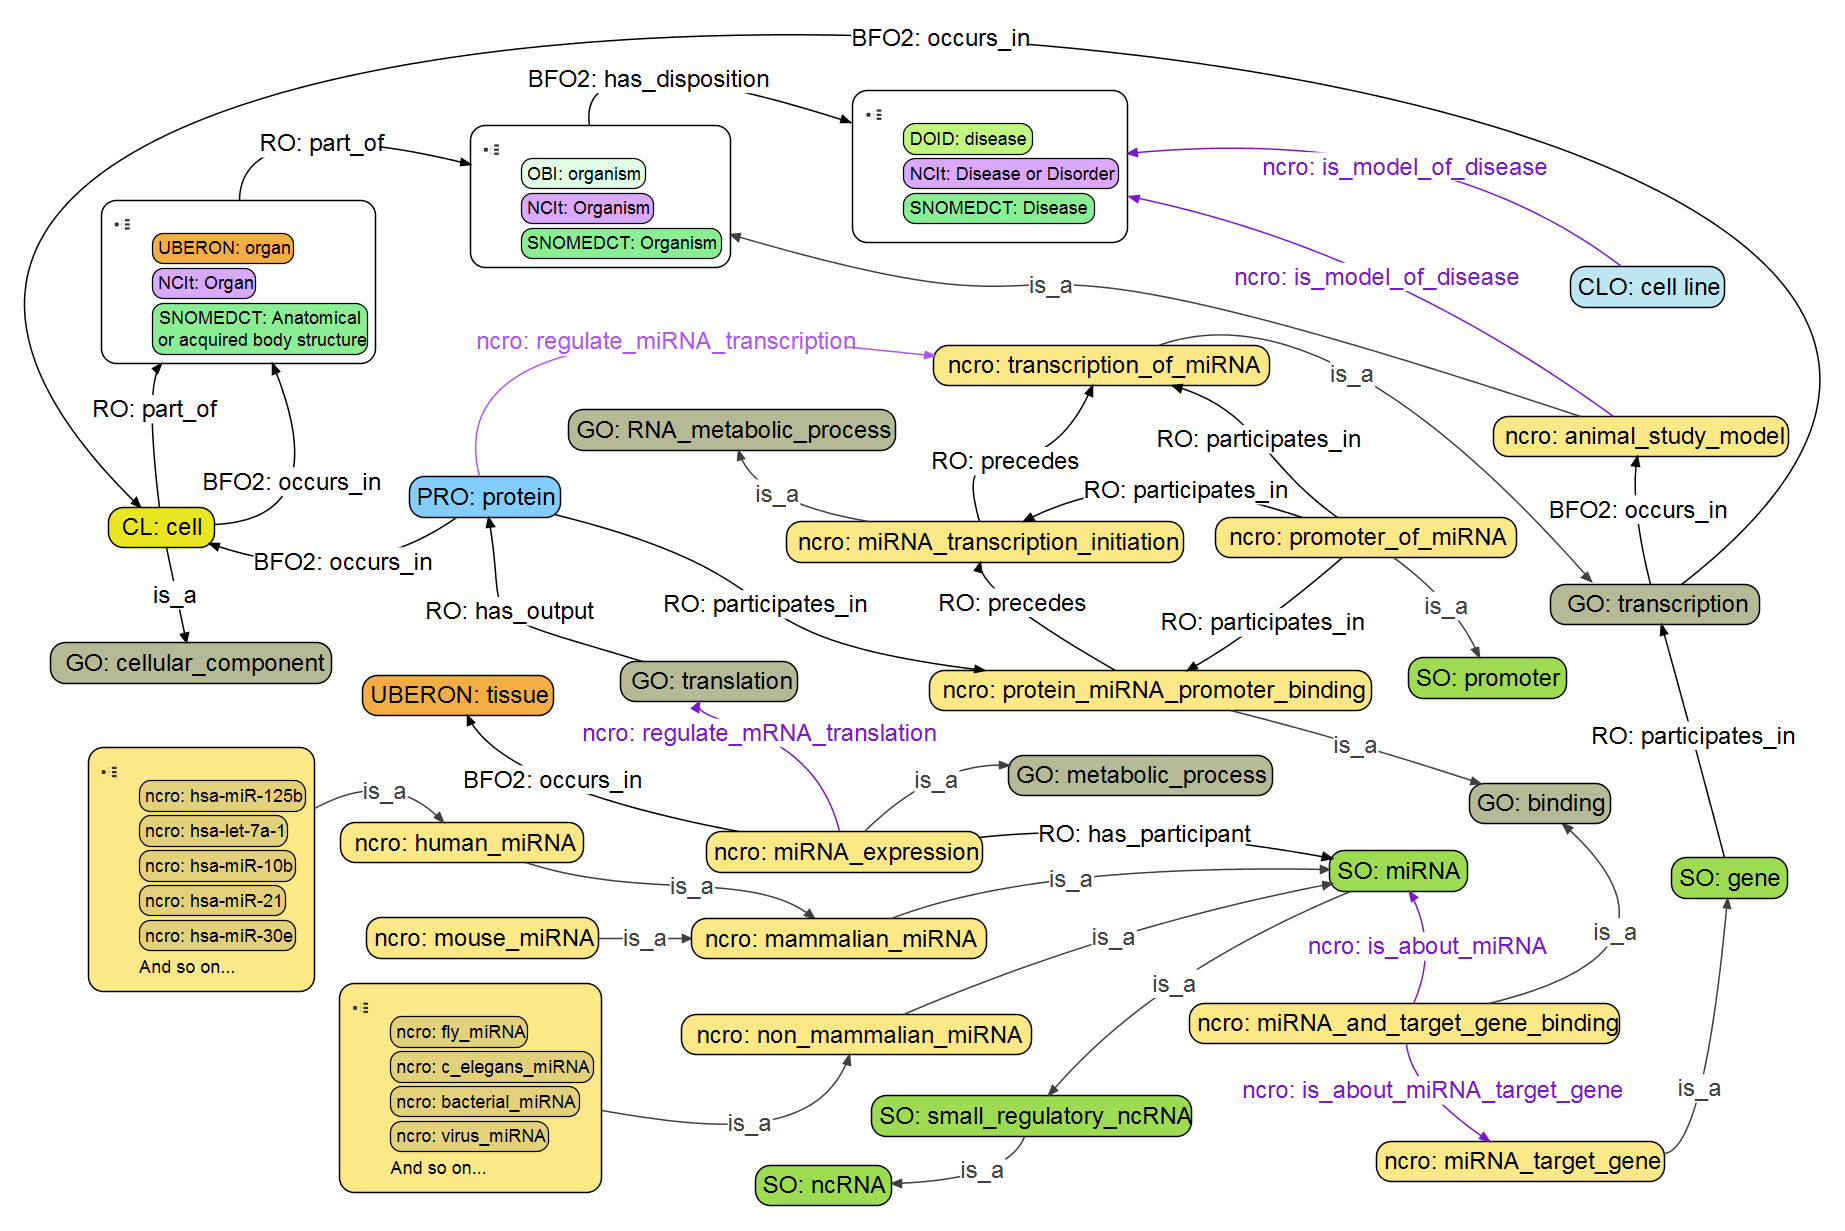
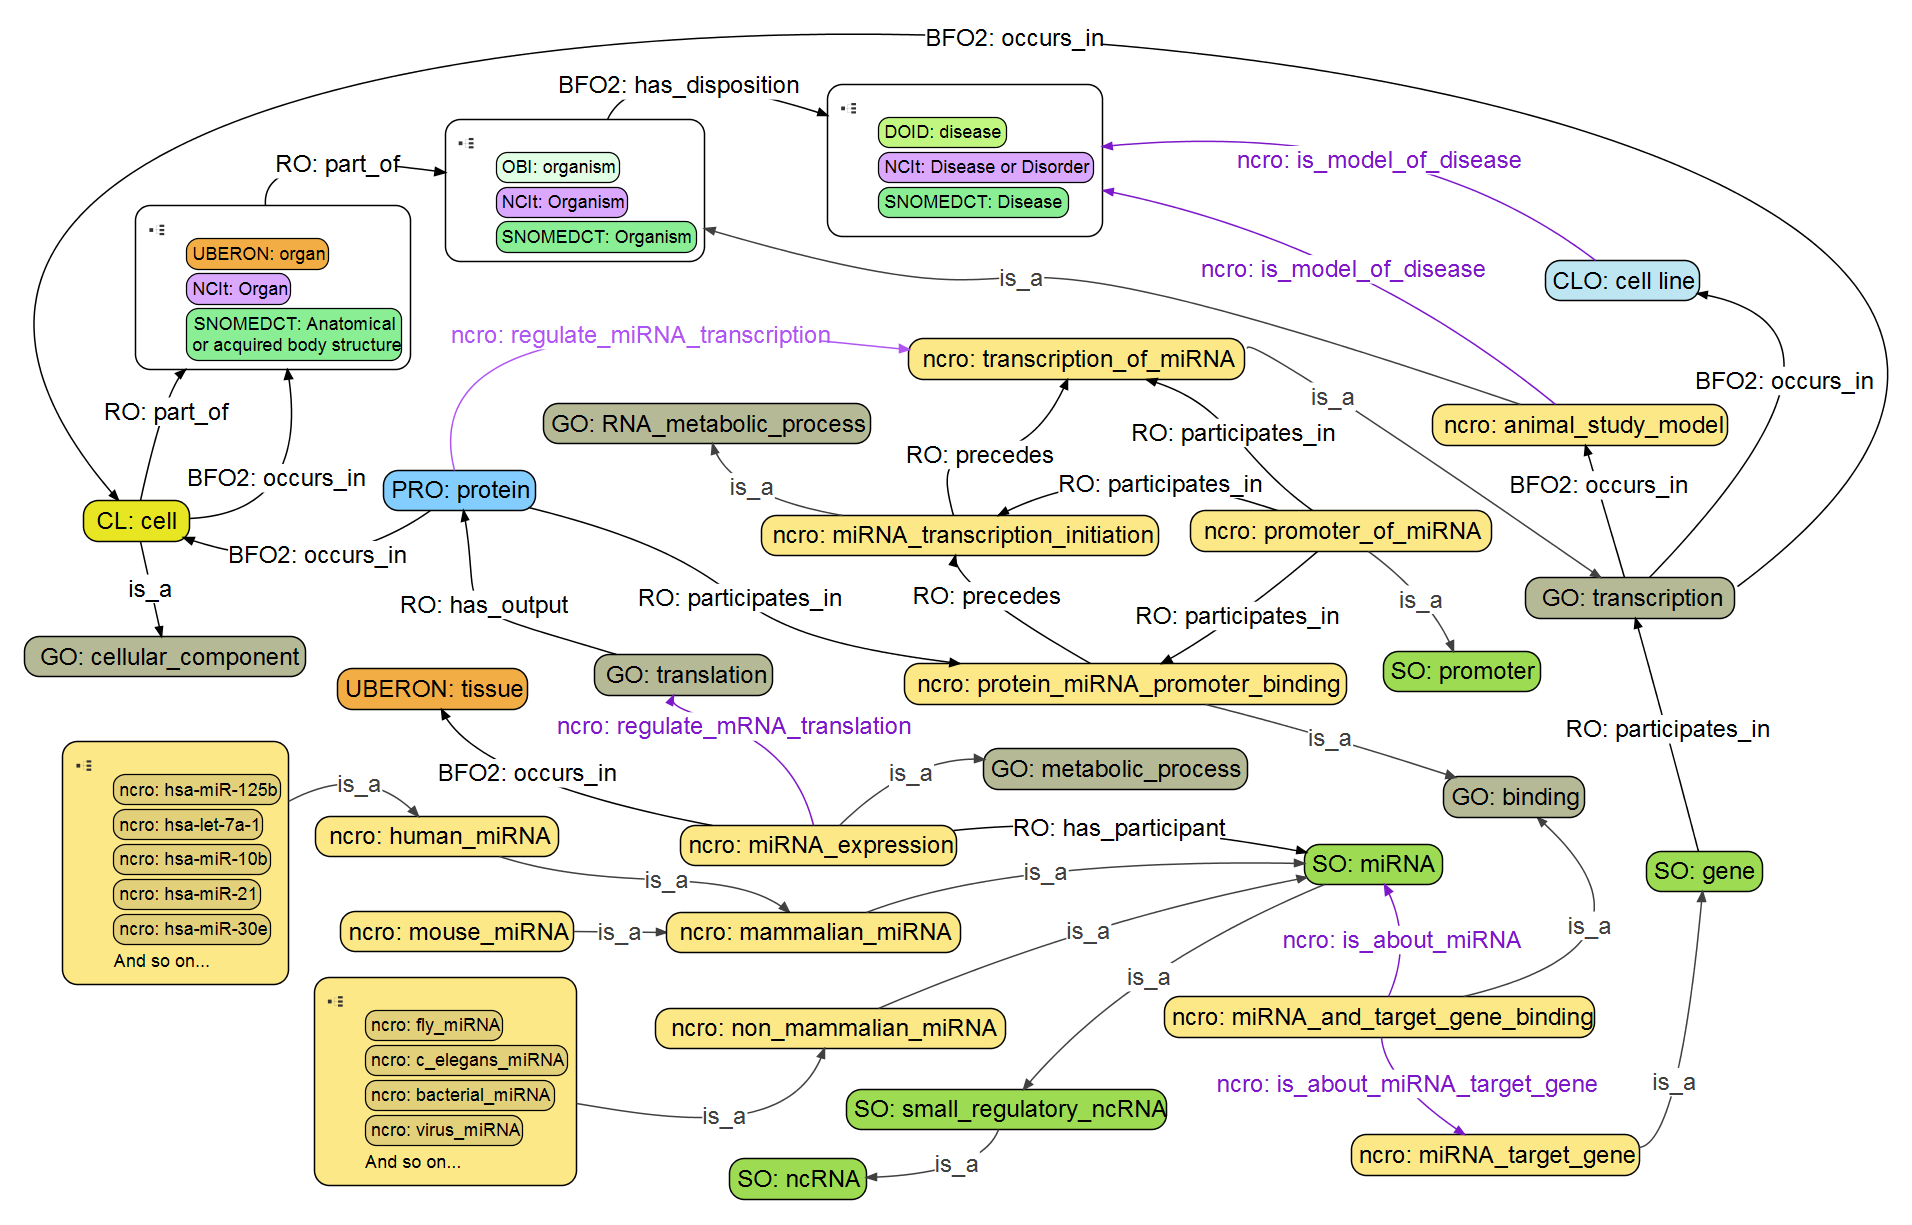
06/10/2015

diff --git a/ncRO-core-v5-He.vue b/ncRO-core-v5-He.vue
@@ -1,14 +1,14 @@
-<!-- Tufts VUE 3.2.2 concept-map (ncRO-core-v5-He.vue) 2015-06-10 -->
+<!-- Tufts VUE 3.2.2 concept-map (ncRO-core-v5-He.vue) 2015-06-11 -->
 <!-- Tufts VUE: http://vue.tufts.edu/ -->
 <!-- Do Not Remove: VUE mapping @version(1.1) jar:file:/C:/Program%20Files%20(x86)/VUE/VUE.jar!/tufts/vue/resources/lw_mapping_1_1.xml -->
-<!-- Do Not Remove: Saved date Wed Jun 10 23:20:02 CDT 2015 by He Zhang on platform Windows 7 6.1 in JVM 1.7.0_21-b11 -->
+<!-- Do Not Remove: Saved date Thu Jun 11 00:07:15 CDT 2015 by He Zhang on platform Windows 7 6.1 in JVM 1.7.0_21-b11 -->
 <!-- Do Not Remove: Saving version @(#)VUE: built May 23 2013 at 2146 by tomadm on Linux 2.6.18-348.2.1.el5 i386 JVM 1.7.0_21-b11(bits=32) -->
 <?xml version="1.0" encoding="US-ASCII"?>
 <LW-MAP xmlns:xsi="http://www.w3.org/2001/XMLSchema-instance"
     xsi:noNamespaceSchemaLocation="none" ID="0"
     label="ncRO-core-v5-He.vue" created="1431734769931" x="0.0" y="0.0"
     width="1.4E-45" height="1.4E-45" strokeWidth="0.0" autoSized="false">
-    <resource referenceCreated="1433996403109"
+    <resource referenceCreated="1433999235269" size="64840"
         spec="C:\Users\He Zhang\Desktop\ncRO-core-v5-He.vue" type="1" xsi:type="URLResource">
         <title>ncRO-core-v5-He.vue</title>
         <property key="File" value="C:\Users\He Zhang\Desktop\ncRO-core-v5-He.vue"/>
@@ -263,19 +263,19 @@
             <font>-plain-1</font>
             <URIString>http://vue.tufts.edu/rdf/resource/bc519b5ac0a80c6101fc8aabed32d421</URIString>
             <richText>&lt;html&gt;
-  &lt;head style="color: #000000" color="#000000"&gt;
+  &lt;head color="#000000" style="color: #000000"&gt;
     &lt;style type="text/css"&gt;
       &lt;!--
-        body { margin-top: 0px; margin-left: 0px; font-family: Arial; font-size: 12; color: #000000; margin-right: 0px; margin-bottom: 0px }
-        ol { margin-top: 6; margin-left: 30; list-style-position: outside; font-family: Arial; font-size: 12; vertical-align: middle }
-        p { margin-top: 0; margin-left: 0; color: #000000; margin-right: 0; margin-bottom: 0 }
-        ul { margin-top: 6; margin-left: 30; list-style-position: outside; font-family: Arial; font-size: 12; vertical-align: middle }
+        body { font-family: Arial; font-size: 12; margin-right: 0px; margin-bottom: 0px; margin-top: 0px; margin-left: 0px; color: #000000 }
+        ol { font-family: Arial; font-size: 12; list-style-position: outside; margin-top: 6; margin-left: 30; vertical-align: middle }
+        p { margin-right: 0; margin-bottom: 0; margin-top: 0; margin-left: 0; color: #000000 }
+        ul { font-family: Arial; font-size: 12; list-style-position: outside; margin-top: 6; margin-left: 30; vertical-align: middle }
       --&gt;
     &lt;/style&gt;
     
   &lt;/head&gt;
   &lt;body&gt;
-    &lt;p style="color: #000000" color="#000000"&gt;
+    &lt;p color="#000000" style="color: #000000"&gt;
       And so on...
     &lt;/p&gt;
   &lt;/body&gt;
@@ -473,8 +473,8 @@
         <ctrlPoint0 x="142.48662" y="162.03925" xsi:type="point"/>
         <ctrlPoint1 x="174.72227" y="177.7421" xsi:type="point"/>
     </child>
-    <child ID="113" layerID="1" created="1433715286761" x="-97.76742"
-        y="-108.963165" width="183.0" height="109.0" strokeWidth="1.0"
+    <child ID="113" layerID="1" created="1433715286761" x="-57.767426"
+        y="-100.963165" width="183.0" height="109.0" strokeWidth="1.0"
         autoSized="true" xsi:type="node">
         <fillColor>#00000000</fillColor>
         <strokeColor>#000000</strokeColor>
@@ -595,32 +595,33 @@
         <shape arcwidth="20.0" archeight="20.0" xsi:type="roundRect"/>
     </child>
     <child ID="129" label="RO: part_of" layerID="1"
-        created="1433715865314" x="-6.3017015" y="-156.49887"
-        width="155.1985" height="48.035736" strokeWidth="1.0"
+        created="1433715865314" x="28.390675" y="-138.25597"
+        width="120.506134" height="37.7928" strokeWidth="1.0"
         autoSized="false" controlCount="2" arrowState="2" xsi:type="link">
         <strokeColor>#000000</strokeColor>
         <textColor>#000000</textColor>
         <font>Arial-plain-16</font>
         <URIString>http://vue.tufts.edu/rdf/resource/d020a786c0a80c4a019878a20d20e95a</URIString>
-        <point1 x="-5.8017015" y="-108.963135"/>
-        <point2 x="148.3968" y="-133.07727"/>
+        <point1 x="28.890675" y="-100.963165"/>
+        <point2 x="148.3968" y="-123.13391"/>
         <ID1 xsi:type="node">113</ID1>
         <ID2 xsi:type="node">121</ID2>
-        <ctrlPoint0 x="-5.3445253" y="-162.46358" xsi:type="point"/>
-        <ctrlPoint1 x="85.28053" y="-148.8533" xsi:type="point"/>
+        <ctrlPoint0 x="25.322144" y="-141.13025" xsi:type="point"/>
+        <ctrlPoint1 x="115.947205" y="-127.51997" xsi:type="point"/>
     </child>
     <child ID="130" label="BFO2: has_disposition" layerID="1"
-        created="1433715928785" x="186.61493" y="-199.41965"
-        width="215.75925" height="41.119476" strokeWidth="1.0"
+        created="1433715928785" x="223.6048" y="-190.83878"
+        width="180.30267" height="32.538544" strokeWidth="1.0"
         autoSized="false" controlCount="1" arrowState="2" xsi:type="link">
         <strokeColor>#000000</strokeColor>
         <textColor>#000000</textColor>
         <font>Arial-plain-16</font>
         <URIString>http://vue.tufts.edu/rdf/resource/d021a598c0a80c4a019878a2a4413832</URIString>
-        <point1 x="227.77051" y="-158.80017"/>
-        <point2 x="401.87418" y="-160.9349"/>
+        <point1 x="256.8633" y="-158.80023"/>
+        <point2 x="403.40747" y="-161.278"/>
         <ID1 xsi:type="node">121</ID1>
-        <ctrlPoint0 x="218.4075" y="-219.97177" xsi:type="point"/>
+        <ID2 xsi:type="node">125</ID2>
+        <ctrlPoint0 x="277.07422" y="-202.63843" xsi:type="point"/>
     </child>
     <child ID="131" label="RO: participates_in" layerID="1"
         created="1433750311138" x="895.5404" y="173.45166" width="134.0"
@@ -657,7 +658,7 @@
         <shape arcwidth="20.0" archeight="20.0" xsi:type="roundRect"/>
     </child>
     <child ID="137" label="ncro: animal_study_model" layerID="1"
-        created="1433751259326" x="830.66205" y="34.864956"
+        created="1433751259326" x="806.82135" y="31.686192"
         width="196.37604" height="27.0" strokeWidth="1.0"
         autoSized="false" xsi:type="node">
         <fillColor>#FDE888</fillColor>
@@ -668,14 +669,14 @@
         <shape arcwidth="20.0" archeight="20.0" xsi:type="roundRect"/>
     </child>
     <child ID="138" label="is_a" layerID="1" created="1433751404809"
-        x="321.1468" y="-86.53538" width="567.48804" height="121.90034"
+        x="321.1468" y="-86.53538" width="544.7864" height="118.721565"
         strokeWidth="1.0" autoSized="false" controlCount="2"
         arrowState="2" xsi:type="link">
         <strokeColor>#404040</strokeColor>
         <textColor>#404040</textColor>
         <font>Arial-plain-16</font>
         <URIString>http://vue.tufts.edu/rdf/resource/d23e9359c0a80c4a00cfd2797ac1d191</URIString>
-        <point1 x="888.1349" y="34.86496"/>
+        <point1 x="865.43317" y="31.686188"/>
         <point2 x="321.6468" y="-86.03538"/>
         <ID1 xsi:type="node">137</ID1>
         <ID2 xsi:type="node">121</ID2>
@@ -683,43 +684,42 @@
         <ctrlPoint1 x="615.4363" y="0.07449722" xsi:type="point"/>
     </child>
     <child ID="139" label="BFO2: occurs_in" layerID="1"
-        created="1433751442012" x="867.1809" y="61.364746" width="117.0"
-        height="86.086914" strokeWidth="1.0" autoSized="false"
+        created="1433751442012" x="857.8878" y="58.18628" width="117.0"
+        height="89.26538" strokeWidth="1.0" autoSized="false"
         controlCount="1" arrowState="2" xsi:type="link">
         <strokeColor>#000000</strokeColor>
         <textColor>#000000</textColor>
         <font>Arial-plain-16</font>
         <URIString>http://vue.tufts.edu/rdf/resource/d23f688cc0a80c4a00cfd279de4fe6ee</URIString>
-        <point1 x="934.9685" y="146.95166"/>
-        <point2 x="926.2332" y="61.864746"/>
+        <point1 x="934.3889" y="146.95166"/>
+        <point2 x="908.71277" y="58.68628"/>
         <ID1 xsi:type="node">104</ID1>
         <ID2 xsi:type="node">137</ID2>
-        <ctrlPoint0 x="920.76105" y="90.094955" xsi:type="point"/>
+        <ctrlPoint0 x="911.2248" y="67.84361" xsi:type="point"/>
     </child>
     <child ID="140" label="BFO2: occurs_in" layerID="1"
-        created="1433751458806" x="-149.24129" y="-226.52028"
-        width="1197.4045" height="373.97186" strokeWidth="1.0"
+        created="1433751458806" x="-126.20735" y="-222.25446"
+        width="1236.4707" height="375.2232" strokeWidth="1.0"
         autoSized="false" controlCount="2" arrowState="2" xsi:type="link">
         <strokeColor>#000000</strokeColor>
         <textColor>#000000</textColor>
         <font>Arial-plain-16</font>
         <URIString>http://vue.tufts.edu/rdf/resource/d23f688cc0a80c4a00cfd2790718175d</URIString>
-        <point1 x="955.6887" y="146.95154"/>
-        <point2 x="-71.41462" y="95.57719"/>
-        <ID1 xsi:type="node">104</ID1>
+        <point1 x="1009.6862" y="152.46875"/>
+        <point2 x="-69.36089" y="95.57719"/>
         <ID2 xsi:type="node">180</ID2>
-        <ctrlPoint0 x="1500.5095" y="-277.0505" xsi:type="point"/>
-        <ctrlPoint1 x="-566.7197" y="-382.51315" xsi:type="point"/>
+        <ctrlPoint0 x="1579.5095" y="-272.2823" xsi:type="point"/>
+        <ctrlPoint1 x="-487.72006" y="-377.74493" xsi:type="point"/>
     </child>
     <child ID="142" label="ncro: is_model_of_disease" layerID="1"
         created="1433751602281" x="586.9742" y="-111.834915"
-        width="323.7428" height="147.19984" strokeWidth="1.0"
+        width="302.04144" height="144.02113" strokeWidth="1.0"
         autoSized="false" controlCount="1" arrowState="2" xsi:type="link">
         <strokeColor>#7C18C9</strokeColor>
         <textColor>#7C18C9</textColor>
         <font>Arial-plain-16</font>
         <URIString>http://vue.tufts.edu/rdf/resource/d24213edc0a80c4a00cfd2792c02a4fd</URIString>
-        <point1 x="910.217" y="34.86493"/>
+        <point1 x="888.5156" y="31.686218"/>
         <point2 x="587.4742" y="-111.334915"/>
         <ID1 xsi:type="node">137</ID1>
         <ctrlPoint0 x="755.02765" y="-77.57248" xsi:type="point"/>
@@ -750,17 +750,17 @@
         <shape arcwidth="20.0" archeight="20.0" xsi:type="roundRect"/>
     </child>
     <child ID="145" label="is_a" layerID="1" created="1433752005899"
-        x="606.47766" y="-19.733444" width="289.49658"
-        height="165.69853" strokeWidth="1.0" autoSized="false"
-        controlCount="1" arrowState="2" xsi:type="link">
+        x="682.6001" y="-6.9857817" width="236.76086" height="154.43735"
+        strokeWidth="1.0" autoSized="false" controlCount="1"
+        arrowState="2" xsi:type="link">
         <strokeColor>#404040</strokeColor>
         <textColor>#404040</textColor>
         <font>Arial-plain-16</font>
         <URIString>http://vue.tufts.edu/rdf/resource/d24bfccfc0a80c4a00cfd27919c338fa</URIString>
-        <point1 x="606.97766" y="-12.309784"/>
-        <point2 x="895.47424" y="145.46509"/>
-        <ID1 xsi:type="node">144</ID1>
-        <ctrlPoint0 x="721.76105" y="-53.238384" xsi:type="point"/>
+        <point1 x="683.1001" y="-5.596231"/>
+        <point2 x="918.86096" y="146.95157"/>
+        <ID2 xsi:type="node">104</ID2>
+        <ctrlPoint0 x="680.43713" y="-18.271992" xsi:type="point"/>
     </child>
     <child ID="147" label="ncro: miRNA_transcription_initiation"
         layerID="1" created="1433752577010" x="359.12277" y="105.181465"
@@ -1040,19 +1040,19 @@
             <font>-plain-1</font>
             <URIString>http://vue.tufts.edu/rdf/resource/d3e2e706c0a80c4a00de5ab431fd452e</URIString>
             <richText>&lt;html&gt;
-  &lt;head style="color: #000000" color="#000000"&gt;
+  &lt;head color="#000000" style="color: #000000"&gt;
     &lt;style type="text/css"&gt;
       &lt;!--
-        body { margin-top: 0px; margin-left: 0px; font-family: Arial; font-size: 12; color: #000000; margin-right: 0px; margin-bottom: 0px }
-        ol { margin-top: 6; margin-left: 30; list-style-position: outside; font-family: Arial; font-size: 12; vertical-align: middle }
-        p { margin-top: 0; margin-left: 0; color: #000000; margin-right: 0; margin-bottom: 0 }
-        ul { margin-top: 6; margin-left: 30; list-style-position: outside; font-family: Arial; font-size: 12; vertical-align: middle }
+        body { font-family: Arial; font-size: 12; margin-right: 0px; margin-bottom: 0px; margin-top: 0px; margin-left: 0px; color: #000000 }
+        ol { font-family: Arial; font-size: 12; list-style-position: outside; margin-top: 6; margin-left: 30; vertical-align: middle }
+        p { margin-right: 0; margin-bottom: 0; margin-top: 0; margin-left: 0; color: #000000 }
+        ul { font-family: Arial; font-size: 12; list-style-position: outside; margin-top: 6; margin-left: 30; vertical-align: middle }
       --&gt;
     &lt;/style&gt;
     
   &lt;/head&gt;
   &lt;body&gt;
-    &lt;p style="color: #000000" color="#000000"&gt;
+    &lt;p color="#000000" style="color: #000000"&gt;
       And so on...
     &lt;/p&gt;
   &lt;/body&gt;
@@ -1113,35 +1113,35 @@
         <shape arcwidth="20.0" archeight="20.0" xsi:type="roundRect"/>
     </child>
     <child ID="185" label="BFO2: occurs_in" layerID="1"
-        created="1433985873778" x="-30.319817" y="-0.46316528"
-        width="117.0" height="108.33316" strokeWidth="1.0"
-        autoSized="false" controlCount="1" arrowState="2" xsi:type="link">
+        created="1433985873778" x="-23.653923" y="7.53685" width="117.0"
+        height="100.333145" strokeWidth="1.0" autoSized="false"
+        controlCount="1" arrowState="2" xsi:type="link">
         <strokeColor>#000000</strokeColor>
         <textColor>#000000</textColor>
         <font>Arial-plain-16</font>
         <URIString>http://vue.tufts.edu/rdf/resource/e047c041a9fe42ab01d8adefe3843f91</URIString>
         <point1 x="-22.138397" y="107.369995"/>
-        <point2 x="16.34868" y="0.036834717"/>
+        <point2 x="43.01226" y="8.03685"/>
         <ID1 xsi:type="node">180</ID1>
         <ID2 xsi:type="node">113</ID2>
         <ctrlPoint0 x="59.255226" y="103.43251" xsi:type="point"/>
     </child>
     <child ID="186" label="RO: part_of" layerID="1"
-        created="1433985900115" x="-103.65571" y="-0.46316528"
-        width="80.0" height="96.54034" strokeWidth="1.0"
-        autoSized="false" controlCount="1" arrowState="2" xsi:type="link">
+        created="1433985900115" x="-79.0827" y="7.5368347" width="80.0"
+        height="88.54033" strokeWidth="1.0" autoSized="false"
+        controlCount="1" arrowState="2" xsi:type="link">
         <strokeColor>#000000</strokeColor>
         <textColor>#000000</textColor>
         <font>Arial-plain-16</font>
         <URIString>http://vue.tufts.edu/rdf/resource/e047c041a9fe42ab01d8adef51ede98a</URIString>
-        <point1 x="-59.067238" y="95.57718"/>
-        <point2 x="-57.29547" y="0.036834717"/>
+        <point1 x="-54.532307" y="95.57716"/>
+        <point2 x="-24.8717" y="8.036835"/>
         <ID1 xsi:type="node">180</ID1>
         <ID2 xsi:type="node">113</ID2>
-        <ctrlPoint0 x="-69.130066" y="12.676657" xsi:type="point"/>
+        <ctrlPoint0 x="-38.4634" y="20.676657" xsi:type="point"/>
     </child>
     <child ID="188" label="is_a" layerID="1" created="1433995941612"
-        x="-63.26155" y="122.07718" width="31.0" height="64.42035"
+        x="-62.76155" y="122.07718" width="30.0" height="64.42035"
         strokeWidth="1.0" autoSized="false" controlCount="0"
         arrowState="2" xsi:type="link">
         <strokeColor>#000000</strokeColor>
@@ -1153,12 +1153,26 @@
         <ID1 xsi:type="node">180</ID1>
         <ID2 xsi:type="node">182</ID2>
     </child>
+    <child ID="189" label="BFO2: occurs_in" layerID="1"
+        created="1433998736856" x="950.857" y="-43.16298"
+        width="147.73749" height="190.6145" strokeWidth="1.0"
+        autoSized="false" controlCount="1" arrowState="2" xsi:type="link">
+        <strokeColor>#000000</strokeColor>
+        <textColor>#000000</textColor>
+        <font>Arial-plain-16</font>
+        <URIString>http://vue.tufts.edu/rdf/resource/e0fef5baa9fe42ab01791f3e358d5088</URIString>
+        <point1 x="951.357" y="146.95154"/>
+        <point2 x="983.211" y="-42.66298"/>
+        <ID1 xsi:type="node">104</ID1>
+        <ID2 xsi:type="node">135</ID2>
+        <ctrlPoint0 x="1112.9049" y="-20.61573" xsi:type="point"/>
+    </child>
     <layer ID="1" label="Layer 1" created="1431734769931" x="0.0"
         y="0.0" width="1.4E-45" height="1.4E-45" strokeWidth="0.0" autoSized="false">
         <URIString>http://vue.tufts.edu/rdf/resource/5a6f92b60a147a5701bb3ae4dfffb6d3</URIString>
     </layer>
-    <userZoom>1.0</userZoom>
-    <userOrigin x="-169.17917" y="-307.02356"/>
+    <userZoom>0.75</userZoom>
+    <userOrigin x="-114.73537" y="-337.64844"/>
     <presentationBackground>#202020</presentationBackground>
     <PathwayList currentPathway="0" revealerIndex="-1">
         <pathway ID="0" label="Untitled Pathway" created="1431734769931"
